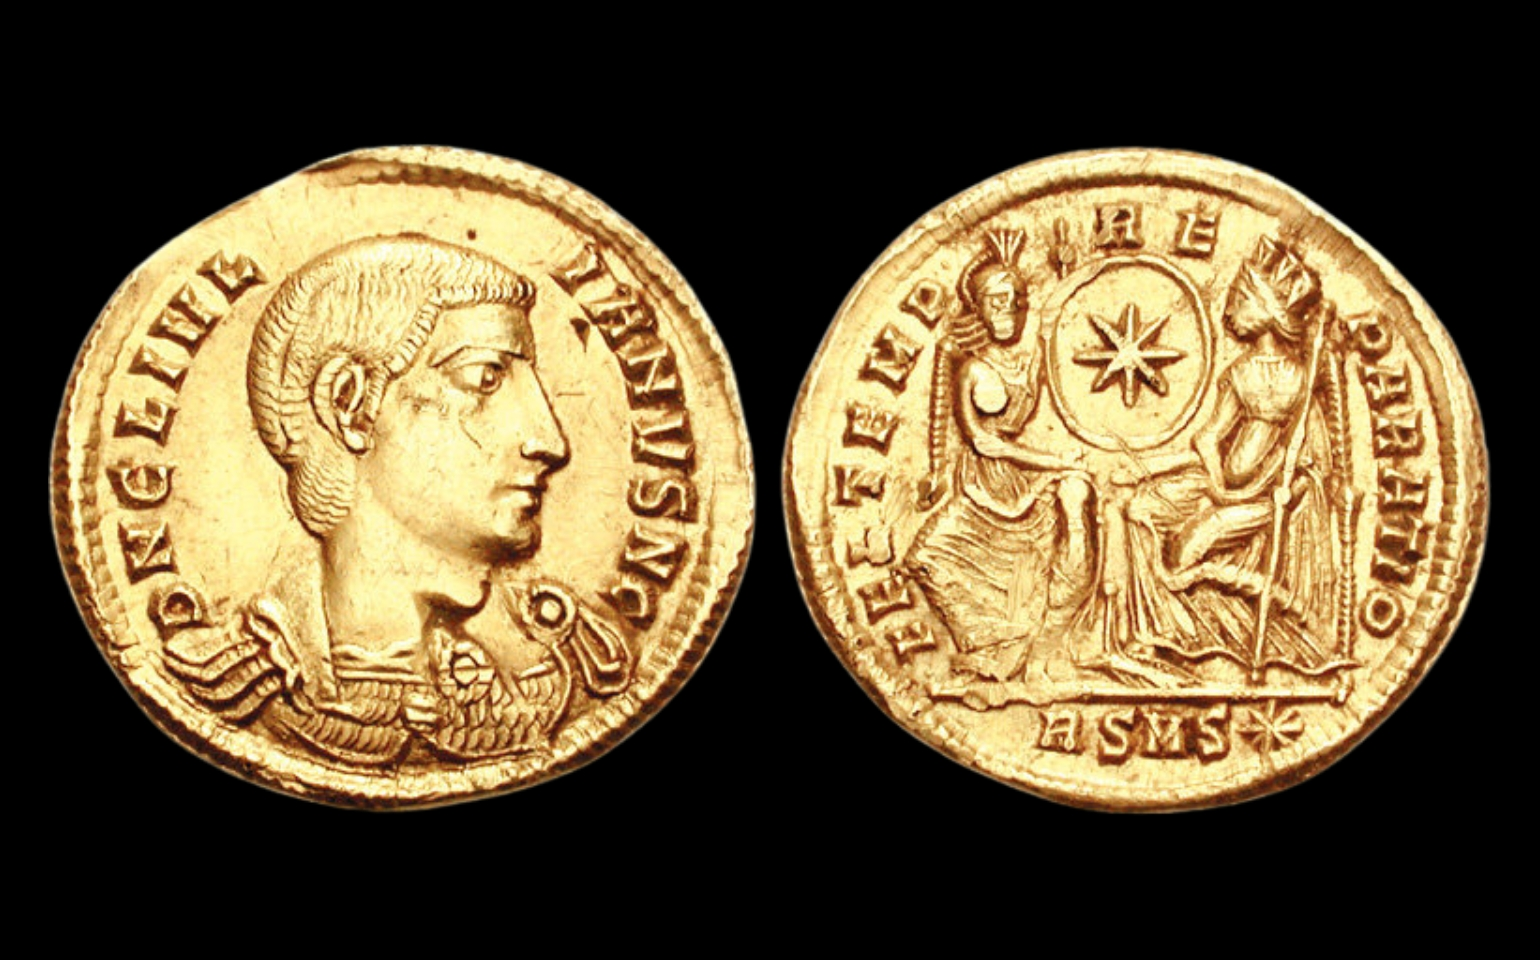
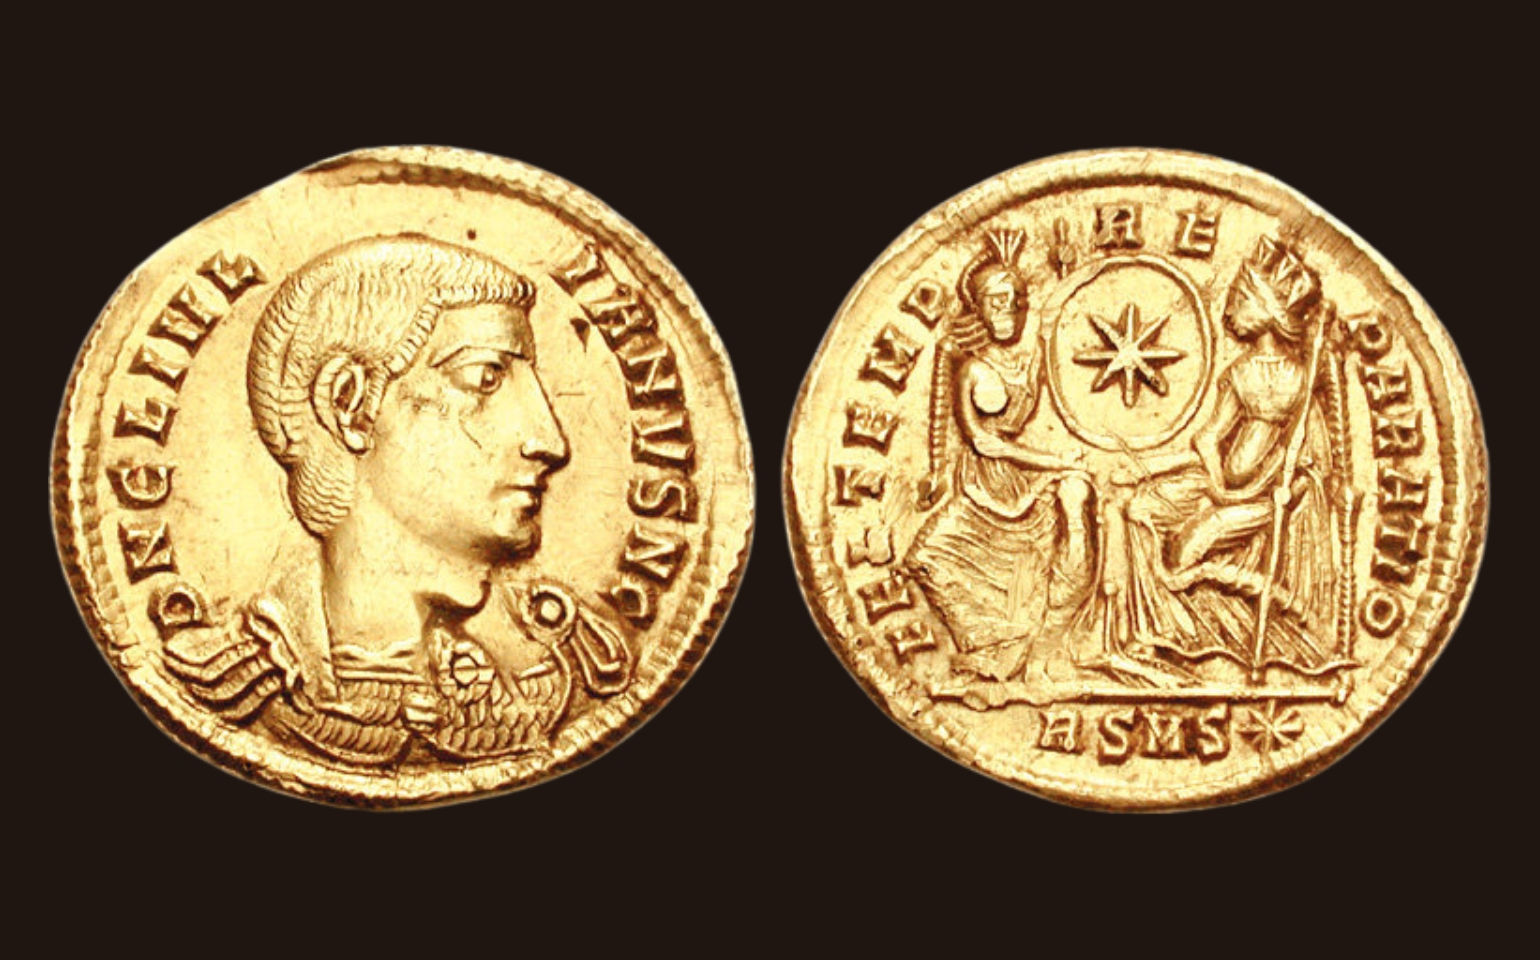
archivo

diff --git a/content/en/archive/_index.md b/content/en/archive/_index.md
@@ -1,0 +1,5 @@
+---
+title: "Archive"
+permalink: "/en/archive/"
+layout: "single"
+---

diff --git a/content/es/archivo/_index.md b/content/es/archivo/_index.md
@@ -1,0 +1,5 @@
+---
+title: "Archivo"
+permalink: "/es/archivo/"
+layout: "single"
+---